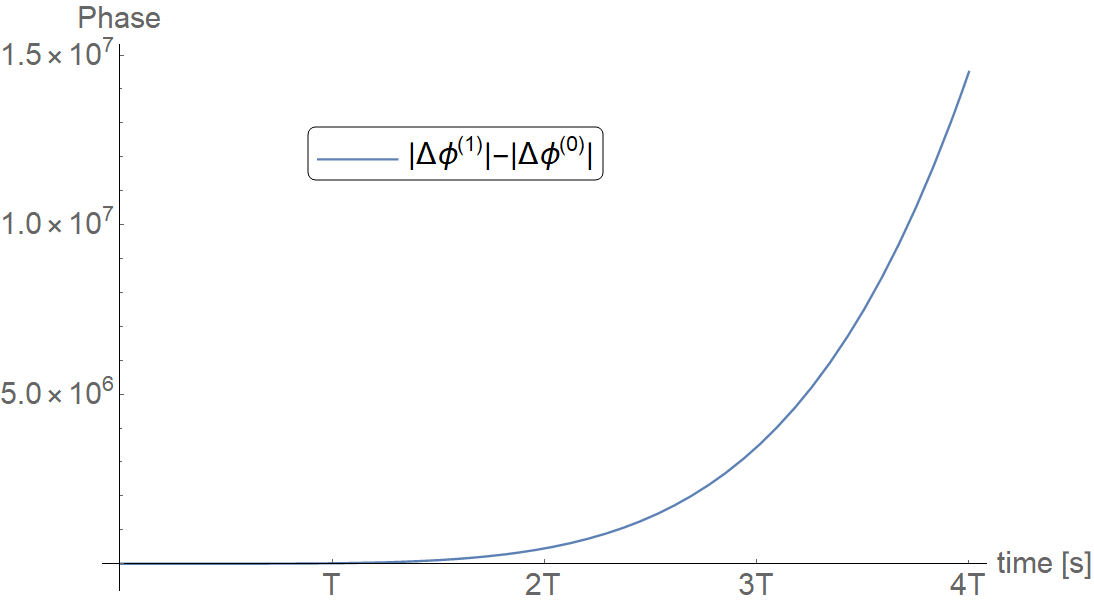
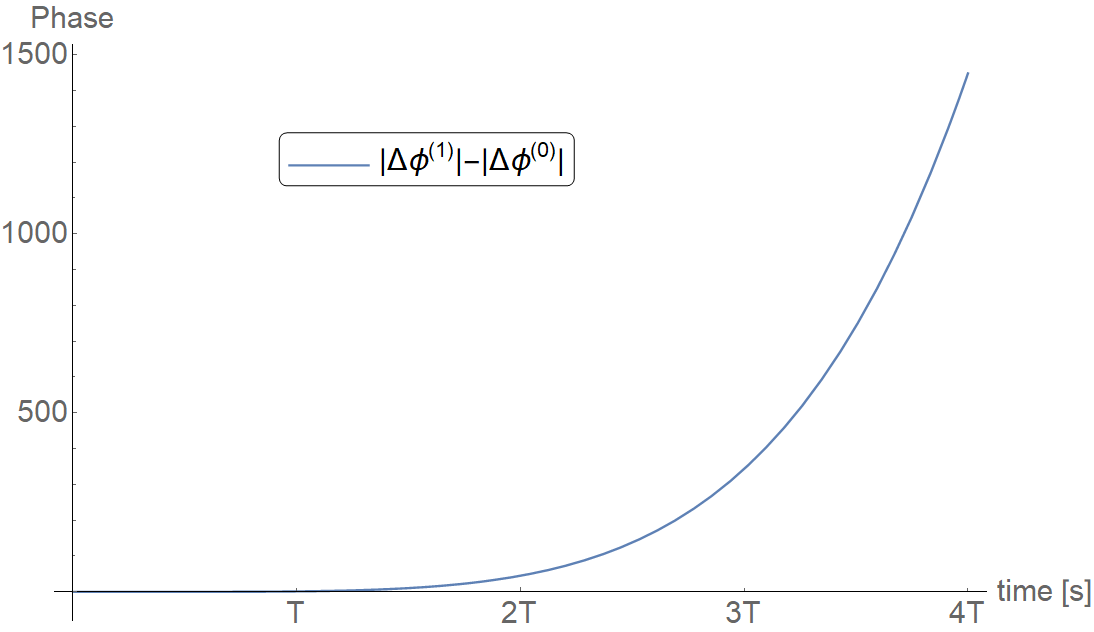
change order of magnitude for deltax

diff --git a/main.tex b/main.tex
@@ -696,7 +696,7 @@ These previous results can be cast into a more illuminating form by expanding th
 where we have used a super-index to indicate that these results correspond to the first-order correction.
 The comparison between the zeroth-order approximation and the first-order correction can be seen in Fig. \ref{phase_graph_first_order}.
 
-The correction given by the first-order approximation goes like $\beta ^2$. Therefore, the error made by considering the first-order approximation will be set by $\beta ^2$ which for the case of typical experimental values (see description of Fig. \ref{phase_graph_first_order}), has a value of $\beta ^2 \approx 1.3 \times 10^{-5}$.
+The correction given by the first-order approximation goes like $\beta ^2$. Therefore, the error made by considering the first-order approximation will be set by $\beta ^2$ which for the case of typical experimental values (see description of Fig. \ref{phase_graph_first_order}), has a value of $\beta ^2 \approx 1.3 \times 10^{-9}$. As we can see in the Fig. \ref{fig:gravimetry_signal_zeroth_order}, this gravimetry signal could allow us to measure $g$ with $10$ digits of precision, however, according to the Fig. \ref{fig:gravimetry_signal_first_minus_zeroth_order} the error due to the first-order correction would start affecting the seventh digit of the measurement. Therefore, in reality, we should be able to measure $g$ with $7$ digits of precision. This precision could be improved using a broader initial wave packet as can be seen in the definition \ref{beta_parameter}. For every order of magnitude that we increase the initial width of the wave packet, we gain $4$ digits of precision in the measurement because the correction goes like $\beta ^2$.
 
 \begin{figure}
      \centering
@@ -710,11 +710,11 @@ The correction given by the first-order approximation goes like $\beta ^2$. Ther
      \begin{subfigure}[b]{0.9\textwidth}
          \centering
          \includegraphics[width=\textwidth]{phase0orderminus1order.png}
-         \caption{Phase difference between the zeroth-order approximation ($\Delta \Phi ^{(0)}$) and the first-order approximation ($\Delta \Phi ^{(1)}$).}
+         \caption{Phase difference between the zeroth-order approximation ($\Delta \Phi ^{(0)}$) and the first-order approximation ($\Delta \Phi ^{(1)}$), i.e., this is the graph of the correction term (second term) in the Eq. \ref{gravimetry_signal_first_order_approx_dimensional}.}
          \label{fig:gravimetry_signal_first_minus_zeroth_order}
      \end{subfigure}
      \hfill
-     \caption{Comparison of the gravimetry signal obtained by using the zeroth-order approximation ($\Delta \Phi ^{(0)}$) given by Eq. \ref{quantum_gravimetry_signal} versus the first-order correction ($\Delta \Phi ^{(1)}$) given by Eq. \ref{gravimetry_signal_first_order_approx_dimensional}. The period used to produce these graphs was $T=100ms$. Besides, we used $g=9.8m/s^{2}$, $\mu=9.27\times10^{-24} J/T$ (the Bohr magneton), $\eta=0.05 T/m$. Additionally, we consider $\ce{^{87}_{}Rb}$ atoms, so we have (\cite{Bunge1993}\cite{KAUSHALSK1970}) $M=1.45\times10^{-25}kg$, $\Delta W=2\pi\times6.835\times10^{9}s^{-1}$ ($\hbar \Delta W $ is the field-free ground state hyperfine energy splitting). Also, we use the approximations in Eqs. \ref{kappa_approx} and \ref{gamma_1_approx}. In addition, we take $p_{0}=0$, $z_{0}=0$, $\Delta Z(0)=100\times10^{-6}m$, and take $z$ to be the final position of the center of the wave packet at the end of the experiment. The center of the wave packet was evaluated by using the Eq. \ref{xi_eq_motion}, where $x=\kappa z$. In this case, $(\sigma_{x, \tau_{0}})^{2} \approx 4.1 \times 10^{-10}$ and $\epsilon \tau \approx 1.5 \times 10^{-11} t$. Thus, for $t=100ms$, we have $\beta \approx 3.6 \times 10^{-3}$ and the expansion used in the Eqs. \ref{sigma_x_t1_first_order}-\ref{sigma_x_t3_first_order} is justified. Moreover, the gap between both approximations will be proportional to $\beta ^2 \approx 1.3 \times 10^{-5}$.}
+     \caption{Comparison of the gravimetry signal obtained by using the zeroth-order approximation ($\Delta \Phi ^{(0)}$) given by Eq. \ref{quantum_gravimetry_signal} versus the first-order correction ($\Delta \Phi ^{(1)}$) given by Eq. \ref{gravimetry_signal_first_order_approx_dimensional}. The period used to produce these graphs was $T=100ms$. Besides, we used $g=9.8m/s^{2}$, $\mu=9.27\times10^{-24} J/T$ (the Bohr magneton), $\eta=0.05 T/m$. Additionally, we consider $\ce{^{87}_{}Rb}$ atoms, so we have (\cite{Bunge1993}\cite{KAUSHALSK1970}) $M=1.45\times10^{-25}kg$, $\Delta W=2\pi\times6.835\times10^{9}s^{-1}$ ($\hbar \Delta W $ is the field-free ground state hyperfine energy splitting). Also, we use the approximations in Eqs. \ref{kappa_approx} and \ref{gamma_1_approx}. In addition, we take $p_{0}=0$, $z_{0}=0$, $\Delta Z(0)=1000\times10^{-6}m$, and take $z$ to be the final position of the center of the wave packet at the end of the experiment. The center of the wave packet was evaluated by using the Eq. \ref{xi_eq_motion}, where $x=\kappa z$. In this case, $(\sigma_{x, \tau_{0}})^{2} \approx 4.1 \times 10^{-8}$ and $\epsilon \tau \approx 1.5 \times 10^{-11} t$. Thus, for $t=100ms$, we have $\beta \approx 3.6 \times 10^{-5}$ and the expansion used in the Eqs. \ref{sigma_x_t1_first_order}-\ref{sigma_x_t3_first_order} is justified. Moreover, the gap between both approximations will be proportional to $\beta ^2 \approx 1.3 \times 10^{-9}$.}
      \label{phase_graph_first_order}
 \end{figure}
 
